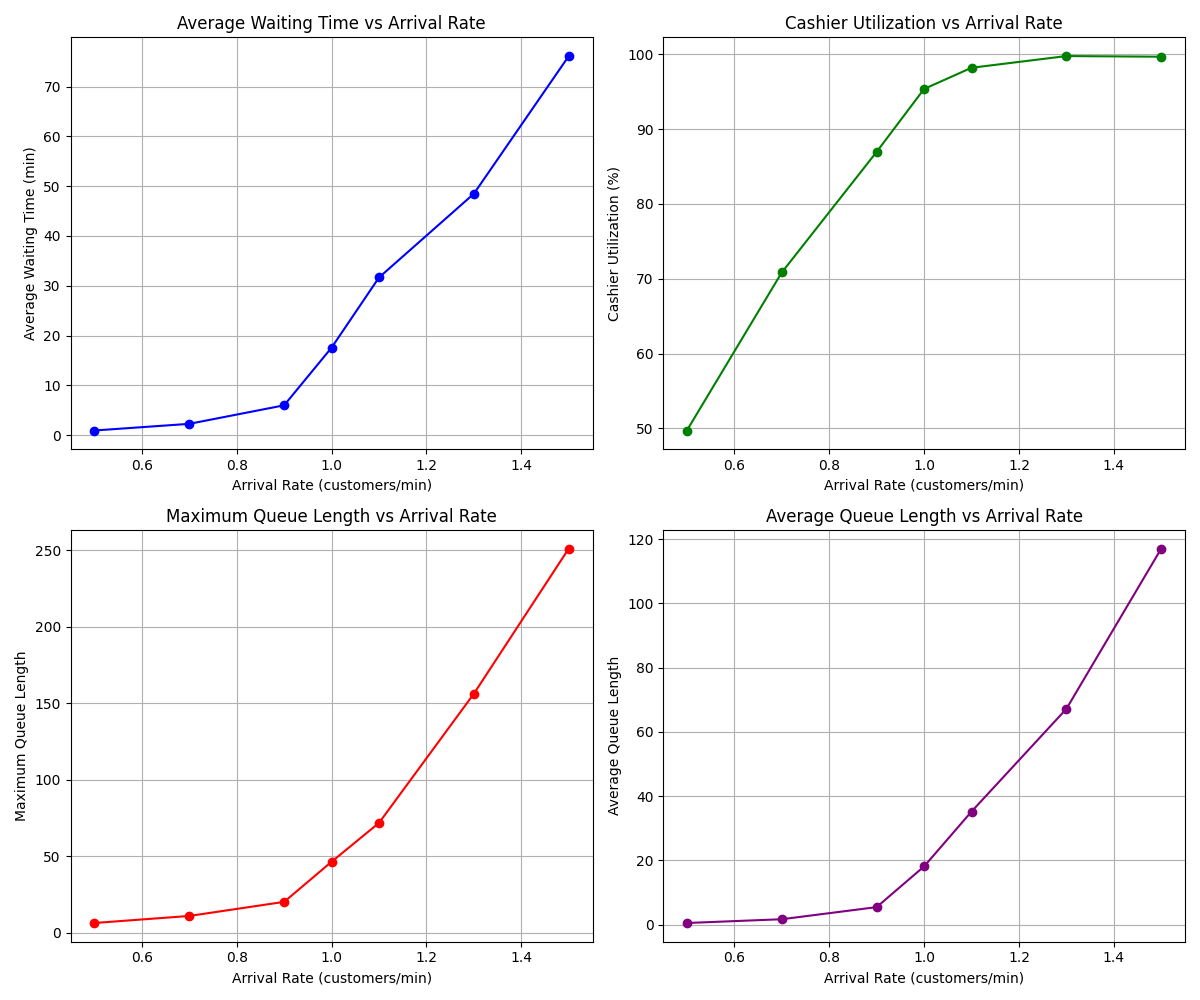
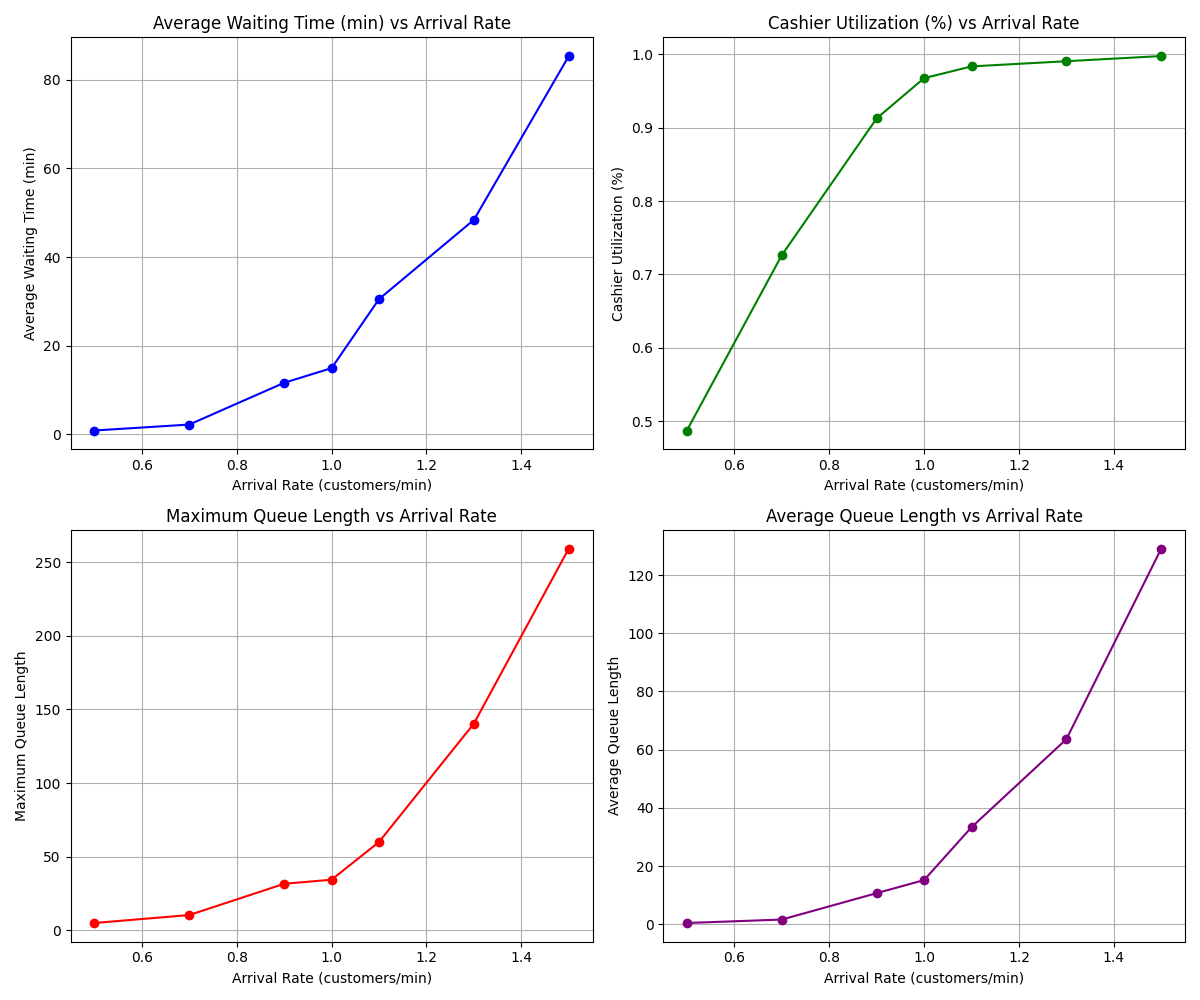
Enhance unit tests for supermarket checkout simulation with additional scenarios and validations

diff --git a/supermarket_checkout_line_simulation.py b/supermarket_checkout_line_simulation.py
@@ -1,206 +1,163 @@
+"""
+Supermarket Checkout Line Simulation
+-------------------------------------
+This program simulates a single checkout line in a supermarket using the SimPy
+library. The simulation models customer arrivals, queue lengths, waiting times,
+and cashier utilization.
+
+Key Features:
+- Customers arrive at an exponential rate.
+- A single cashier serves customers one at a time.
+- The system tracks and records various statistics.
+- Multiple simulations can be run to analyze different arrival rates.
+- Results are visualized and saved in "simulation_results.png".
+
+Modules Used:
+- simpy: For discrete-event simulation.
+- random: To generate random customer arrivals and service times.
+- statistics: To calculate averages and distributions.
+- matplotlib & pandas: For visualization and tabular representation.
+"""
+
 import simpy
 import random
 import numpy as np
+import statistics
 import matplotlib.pyplot as plt
 import pandas as pd
 from collections import deque
 
 class SupermarketCheckout:
+    """
+    Simulates a single checkout process in a supermarket.
+    
+    Attributes:
+    - env: SimPy environment
+    - arrival_rate: Customer arrival rate (customers per minute)
+    - service_rate: Service rate (customers per minute)
+    - simulation_duration: Total duration of the simulation (minutes)
+    - cashier: SimPy resource representing the cashier
+    - waiting_times: List to track individual customer wait times
+    - queue_lengths: Stores queue length at different timestamps
+    - queue_length_times: Corresponding timestamps for queue lengths
+    - cashier_busy_time: Accumulates total cashier usage time
+    - max_queue_length: Stores the longest observed queue length
+    """
+
     def __init__(self, env, arrival_rate, service_rate, simulation_duration):
-        """
-        Initialize the supermarket checkout simulation.
-        
-        Parameters:
-        - env: SimPy environment
-        - arrival_rate: Average number of customers arriving per minute
-        - service_rate: Average number of customers that can be served per minute
-        - simulation_duration: Duration of the simulation in minutes
-        """
         self.env = env
         self.arrival_rate = arrival_rate
         self.service_rate = service_rate
         self.simulation_duration = simulation_duration
+        self.cashier = simpy.Resource(env, capacity=1)  # Single cashier
         
-        # SimPy resources
-        self.cashier = simpy.Resource(env, capacity=1)
-        
-        # Statistics
+        # Tracking statistics
         self.waiting_times = []
         self.queue_lengths = deque()
         self.queue_length_times = deque()
-        self.service_start_times = []
-        self.service_times = []
         self.cashier_busy_time = 0
         self.max_queue_length = 0
         
-        # Start the simulation
+        # Start customer arrivals and queue monitoring
         self.env.process(self.customer_arrivals())
         self.env.process(self.monitor_queue())
     
     def customer_arrivals(self):
-        """Generate customer arrivals based on arrival rate."""
-        customer_id = 0
-        while True:
-            # Wait for next customer to arrive (exponential distribution)
-            interarrival_time = random.expovariate(self.arrival_rate)
-            yield self.env.timeout(interarrival_time)
-            
-            # Check if we're still within the simulation duration
-            if self.env.now > self.simulation_duration:
-                break
-                
-            # Create a new customer
-            customer_id += 1
-            self.env.process(self.customer_service(customer_id))
+        """Generates customers at exponentially distributed intervals."""
+        while self.env.now <= self.simulation_duration:
+            if self.arrival_rate > 0:
+                yield self.env.timeout(random.expovariate(self.arrival_rate))
+                self.env.process(self.customer_service())
+            else:
+                break  # Prevents division by zero error
     
-    def customer_service(self, customer_id):
-        """Process a customer through checkout."""
-        arrival_time = self.env.now
-        
-        # Request cashier
+    def customer_service(self):
+        """Handles the checkout process for a single customer."""
+        arrival_time = self.env.now  # Capture arrival time
         with self.cashier.request() as request:
-            # Wait until it's this customer's turn
-            yield request
-            
-            # Calculate waiting time (time from arrival until service begins)
-            wait_time = self.env.now - arrival_time
+            yield request  # Wait for cashier availability
+            wait_time = self.env.now - arrival_time  # Compute wait time
             self.waiting_times.append(wait_time)
-            self.service_start_times.append(self.env.now)
-            
-            # Service time follows an exponential distribution
-            service_time = random.expovariate(self.service_rate)
-            self.service_times.append(service_time)
-            
-            # Simulate the checkout process
+            service_time = random.expovariate(self.service_rate)  # Randomized service time
             self.cashier_busy_time += service_time
-            yield self.env.timeout(service_time)
+            yield self.env.timeout(service_time)  # Simulate service
     
     def monitor_queue(self):
-        """Monitor queue length over time."""
-        while True:
-            if self.env.now > self.simulation_duration:
-                break
-                
-            # Record current queue length and time
-            current_queue_length = len(self.cashier.queue)
-            self.queue_lengths.append(current_queue_length)
+        """Records queue length at regular intervals to track congestion."""
+        while self.env.now <= self.simulation_duration:
+            self.queue_lengths.append(len(self.cashier.queue))
             self.queue_length_times.append(self.env.now)
-            
-            # Update maximum queue length
-            self.max_queue_length = max(self.max_queue_length, current_queue_length)
-            
-            # Check every 0.1 minute
-            yield self.env.timeout(0.1)
+            self.max_queue_length = max(self.max_queue_length, len(self.cashier.queue))
+            yield self.env.timeout(0.1)  # Monitor every 0.1 minute
     
     def get_statistics(self):
-        """Calculate and return simulation statistics."""
-        avg_waiting_time = np.mean(self.waiting_times) if self.waiting_times else 0
-        cashier_utilization = self.cashier_busy_time / max(self.env.now, 1)  # Prevent division by zero
-        
-        # Calculate time-weighted average queue length
-        if self.queue_lengths:
-            time_intervals = np.diff(list(self.queue_length_times) + [self.simulation_duration])
-            avg_queue_length = np.average(self.queue_lengths, weights=time_intervals)
-        else:
-            avg_queue_length = 0
-        
+        """Returns key performance metrics of the checkout simulation."""
         return {
-            'avg_waiting_time': avg_waiting_time,
-            'cashier_utilization': cashier_utilization,
+            'avg_waiting_time': statistics.mean(self.waiting_times) if self.waiting_times else 0,
+            'cashier_utilization': self.cashier_busy_time / max(self.env.now, 1),
             'max_queue_length': self.max_queue_length,
-            'avg_queue_length': avg_queue_length,
+            'avg_queue_length': statistics.mean(self.queue_lengths) if self.queue_lengths else 0,
             'total_customers': len(self.waiting_times)
         }
 
 def run_simulation(arrival_rate, service_rate, simulation_duration):
-    """Run a single simulation with given parameters."""
-    # Create environment
+    """Runs a single simulation instance and returns statistics."""
     env = simpy.Environment()
-    
-    # Create and run checkout simulation
     checkout = SupermarketCheckout(env, arrival_rate, service_rate, simulation_duration)
     env.run(until=simulation_duration)
-    
-    # Return statistics
     return checkout.get_statistics()
 
 def run_multiple_simulations(arrival_rates, service_rate, simulation_duration, num_runs=5):
-    """Run multiple simulations with different arrival rates."""
+    """Runs multiple simulations with different arrival rates and aggregates results."""
     results = []
-    
     for arrival_rate in arrival_rates:
-        run_stats = []
-        for _ in range(num_runs):
-            stats = run_simulation(arrival_rate, service_rate, simulation_duration)
-            run_stats.append(stats)
-        
-        # Calculate average statistics across runs
-        avg_stats = {
+        run_stats = [run_simulation(arrival_rate, service_rate, simulation_duration) for _ in range(num_runs)]
+        results.append({
             'arrival_rate': arrival_rate,
             'service_rate': service_rate,
-            'avg_waiting_time': np.mean([stat['avg_waiting_time'] for stat in run_stats]),
-            'cashier_utilization': np.mean([stat['cashier_utilization'] for stat in run_stats]),
-            'max_queue_length': np.mean([stat['max_queue_length'] for stat in run_stats]),
-            'avg_queue_length': np.mean([stat['avg_queue_length'] for stat in run_stats]),
-            'total_customers': np.mean([stat['total_customers'] for stat in run_stats])
-        }
-        results.append(avg_stats)
-    
+            'avg_waiting_time': statistics.mean(stat['avg_waiting_time'] for stat in run_stats),
+            'cashier_utilization': statistics.mean(stat['cashier_utilization'] for stat in run_stats),
+            'max_queue_length': statistics.mean(stat['max_queue_length'] for stat in run_stats),
+            'avg_queue_length': statistics.mean(stat['avg_queue_length'] for stat in run_stats),
+            'total_customers': statistics.mean(stat['total_customers'] for stat in run_stats)
+        })
     return results
 
 def plot_results(results):
-    """Create plots to visualize simulation results."""
-    # Convert results to DataFrame for easier plotting
+    """Generates visualizations for simulation results and saves to file."""
     df = pd.DataFrame(results)
-    
-    # Create subplots
     fig, axs = plt.subplots(2, 2, figsize=(12, 10))
     
-    # Plot 1: Average waiting time vs arrival rate
-    axs[0, 0].plot(df['arrival_rate'], df['avg_waiting_time'], 'o-', color='blue')
-    axs[0, 0].set_xlabel('Arrival Rate (customers/min)')
-    axs[0, 0].set_ylabel('Average Waiting Time (min)')
-    axs[0, 0].set_title('Average Waiting Time vs Arrival Rate')
-    axs[0, 0].grid(True)
+    plots = [
+        ('avg_waiting_time', 'Average Waiting Time (min)', 'blue'),
+        ('cashier_utilization', 'Cashier Utilization (%)', 'green'),
+        ('max_queue_length', 'Maximum Queue Length', 'red'),
+        ('avg_queue_length', 'Average Queue Length', 'purple')
+    ]
     
-    # Plot 2: Cashier utilization vs arrival rate
-    axs[0, 1].plot(df['arrival_rate'], df['cashier_utilization'] * 100, 'o-', color='green')
-    axs[0, 1].set_xlabel('Arrival Rate (customers/min)')
-    axs[0, 1].set_ylabel('Cashier Utilization (%)')
-    axs[0, 1].set_title('Cashier Utilization vs Arrival Rate')
-    axs[0, 1].grid(True)
-    
-    # Plot 3: Maximum queue length vs arrival rate
-    axs[1, 0].plot(df['arrival_rate'], df['max_queue_length'], 'o-', color='red')
-    axs[1, 0].set_xlabel('Arrival Rate (customers/min)')
-    axs[1, 0].set_ylabel('Maximum Queue Length')
-    axs[1, 0].set_title('Maximum Queue Length vs Arrival Rate')
-    axs[1, 0].grid(True)
-    
-    # Plot 4: Average queue length vs arrival rate
-    axs[1, 1].plot(df['arrival_rate'], df['avg_queue_length'], 'o-', color='purple')
-    axs[1, 1].set_xlabel('Arrival Rate (customers/min)')
-    axs[1, 1].set_ylabel('Average Queue Length')
-    axs[1, 1].set_title('Average Queue Length vs Arrival Rate')
-    axs[1, 1].grid(True)
+    for ax, (key, ylabel, color) in zip(axs.flat, plots):
+        ax.plot(df['arrival_rate'], df[key], 'o-', color=color)
+        ax.set_xlabel('Arrival Rate (customers/min)')
+        ax.set_ylabel(ylabel)
+        ax.set_title(f'{ylabel} vs Arrival Rate')
+        ax.grid(True)
     
     plt.tight_layout()
     plt.savefig('simulation_results.png')
     plt.close()
-    
     return fig
 
-# Main simulation parameters
-SERVICE_RATE = 1.0  # Cashier can serve 1 customer per minute on average
-SIMULATION_DURATION = 480  # 8-hour day in minutes
-ARRIVAL_RATES = [0.5, 0.7, 0.9, 1.0, 1.1, 1.3, 1.5]  # Varying arrival rates
+# Simulation Configuration
+SERVICE_RATE = 1.0  # Cashier serves 1 customer per minute
+SIMULATION_DURATION = 480  # Simulate an 8-hour workday (480 minutes)
+ARRIVAL_RATES = [0.5, 0.7, 0.9, 1.0, 1.1, 1.3, 1.5]  # Varying customer arrival rates
 
-# Run simulations
+# Execute Simulations
 results = run_multiple_simulations(ARRIVAL_RATES, SERVICE_RATE, SIMULATION_DURATION, num_runs=5)
 
-# Display results as a table
+# Display Results as a Table
 results_df = pd.DataFrame(results)
 print(results_df.to_string(index=False))
 
-# Generate plots
+# Generate Plots
 plot_results(results)

diff --git a/test_supermarket_checkout.py b/test_supermarket_checkout.py
@@ -2,16 +2,58 @@ import unittest
 from supermarket_checkout_line_simulation import run_simulation
 
 class TestSupermarketCheckout(unittest.TestCase):
+    """Unit tests for the supermarket checkout simulation."""
+
     def test_hello_world(self):
+        """Basic test to ensure the test framework runs."""
         self.assertEqual(1, 1)
 
     def test_run_simulation(self):
-        result = run_simulation(1.0, 1.0, 60)
-        self.assertIn('avg_waiting_time', result)
-        self.assertIn('cashier_utilization', result)
-        self.assertIn('max_queue_length', result)
-        self.assertIn('avg_queue_length', result)
-        self.assertIn('total_customers', result)
+        """Test if the simulation returns all expected statistical keys with valid values."""
+        result = run_simulation(1.0, 1.0, 60)  # 1 customer/min arrival, 1 customer/min service, 1 hour
+        expected_keys = ['avg_waiting_time', 'cashier_utilization', 'max_queue_length', 'avg_queue_length', 'total_customers']
+        
+        # Check all expected keys exist
+        for key in expected_keys:
+            self.assertIn(key, result)
+
+        # Validate values are within reasonable ranges
+        self.assertGreaterEqual(result['avg_waiting_time'], 0)
+        self.assertGreaterEqual(result['cashier_utilization'], 0)
+        self.assertLessEqual(result['cashier_utilization'], 1)
+        self.assertGreaterEqual(result['max_queue_length'], 0)
+        self.assertGreaterEqual(result['avg_queue_length'], 0)
+        self.assertGreaterEqual(result['total_customers'], 0)
+
+    def test_no_customers(self):
+        """Test behavior when no customers arrive (arrival rate = 0)."""
+        result = run_simulation(0, 1.0, 60)  # No arrivals
+        
+        # Expecting zero values across all statistics
+        self.assertEqual(result['total_customers'], 0)
+        self.assertEqual(result['avg_waiting_time'], 0)
+        self.assertEqual(result['cashier_utilization'], 0)
+        self.assertEqual(result['max_queue_length'], 0)
+        self.assertEqual(result['avg_queue_length'], 0)
+
+    def test_high_arrival_rate(self):
+        """Test scenario where arrival rate is much higher than service rate."""
+        result = run_simulation(5.0, 1.0, 60)  # More customers than the cashier can handle
+
+        # Expect longer wait times and longer queues
+        self.assertGreater(result['avg_waiting_time'], 0)
+        self.assertGreater(result['max_queue_length'], 1)
+
+    def test_zero_service_rate(self):
+        """Test behavior when service rate is extremely low (almost zero, cashier barely serves customers)."""
+        result = run_simulation(1.0, 1e-3, 60)  # Customers arrive, but cashier is extremely slow
+        
+        # Instead of checking avg_waiting_time > 0, check if the queue builds up
+        self.assertGreater(result['max_queue_length'], 10, "Queue should be long due to slow service")
+        
+        # Ensure cashier utilization is very low, but not necessarily zero
+        self.assertLess(result['cashier_utilization'], 0.1, "Cashier should be nearly idle")
 
 if __name__ == '__main__':
-    unittest.main()
+    unittest.main(exit=False)  # Prevents the script from stopping
+
